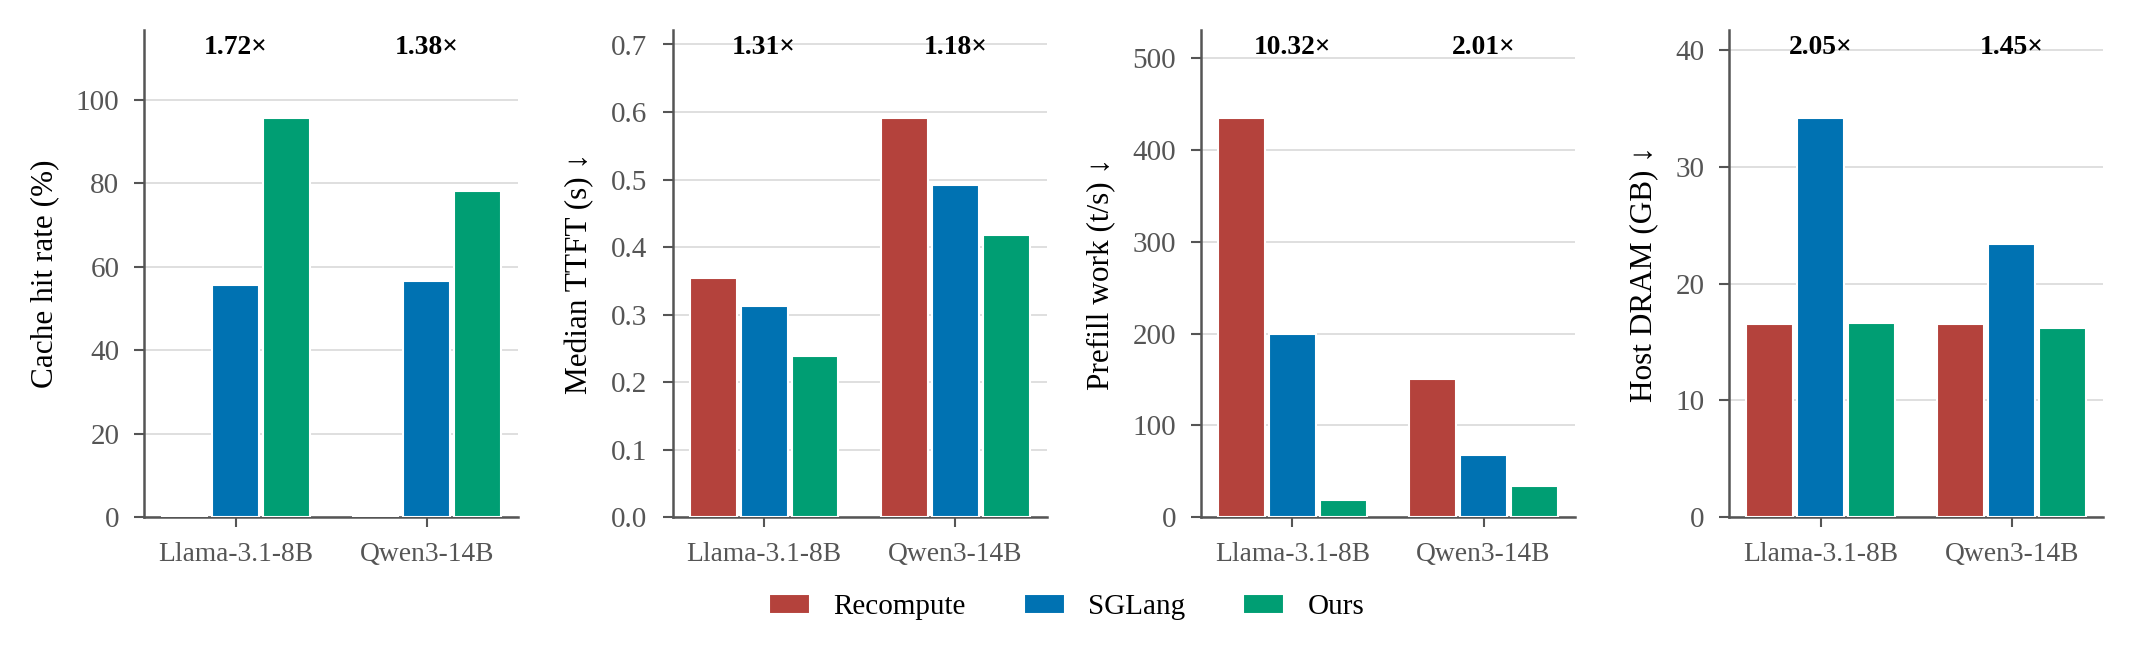
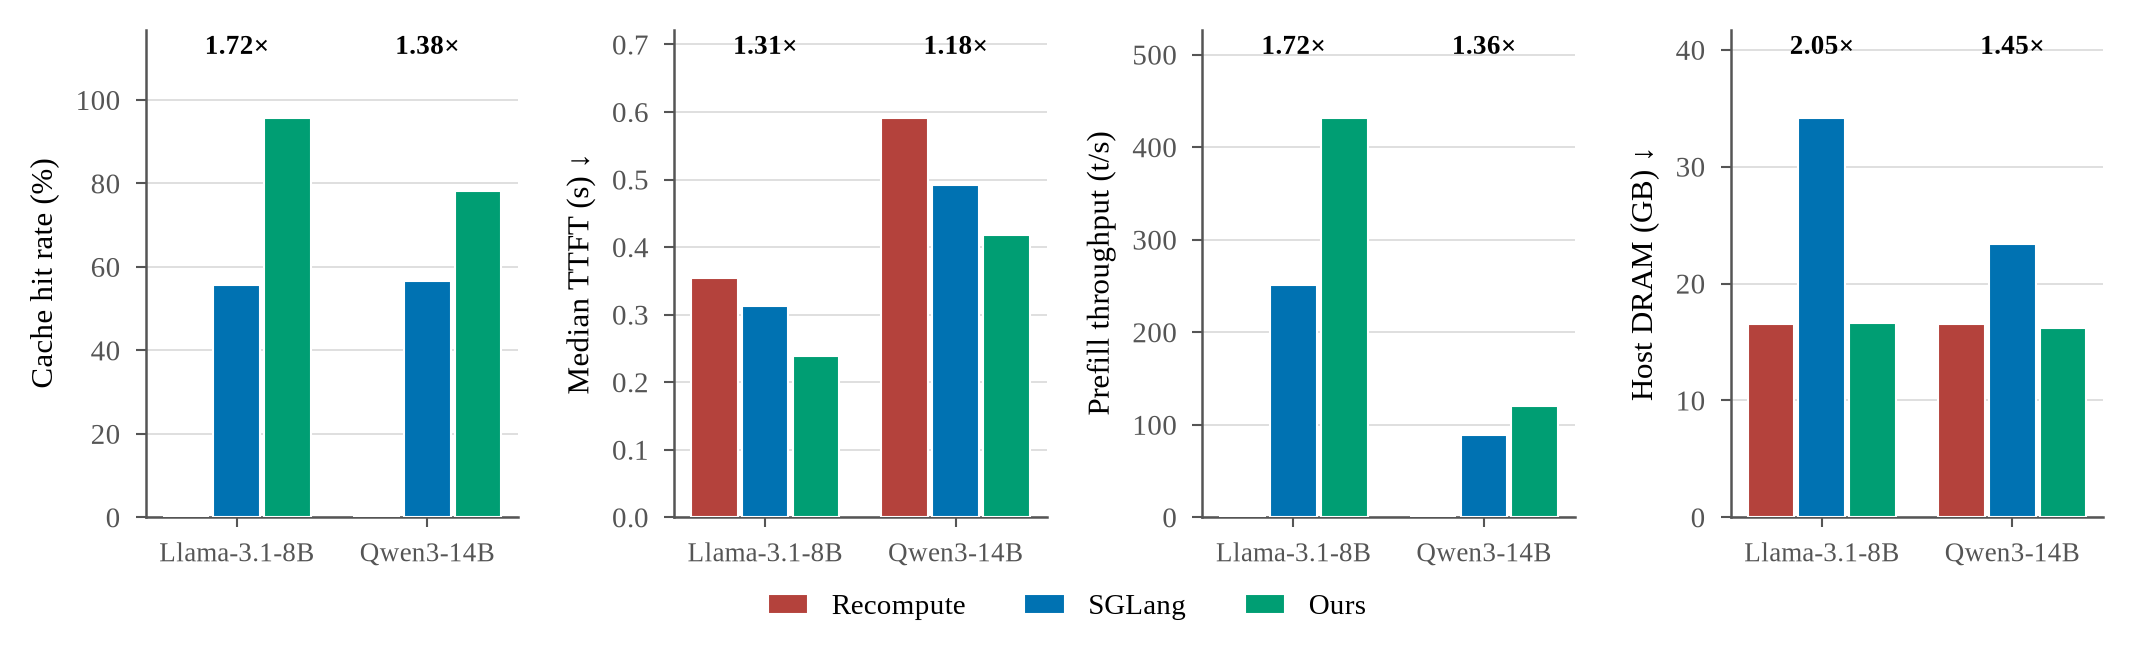
plot prefill in the direction a bar chart is read
The panel showed recomputed prefill tokens per second, where lower is better,
under the label "Prefill work (t/s)" with a small down-arrow. That reads as a
throughput metric, and the reference figure this one imitates plots prefill
throughput with taller meaning better -- so the arm doing 10x LESS prefill work
looked like the worst one. The arrow was not enough, and the label invited the
misreading.

Replaced with prompt tokens SERVED FROM CACHE per second: prefill the server did
not have to do, higher is better. Same underlying measurement, plotted so the
default reading is the correct one. Llama-3.1-8B 0 / 251 / 432 t/s and Qwen3-14B
0 / 88 / 121 t/s for Recompute / SGLang / Ours.

The inverted view is kept as a `recompute_rate` panel for anyone who wants it,
with a comment recording that it was the default once and what went wrong.

Claude-Session: https://claude.ai/code/session_01AoK4pG7kwrWE4Xc7fqoTVf

diff --git a/benchmark/plot_models.py b/benchmark/plot_models.py
@@ -13,14 +13,18 @@ WHAT EACH PANEL MEANS, AND ONE THAT DOES NOT MEAN WHAT ITS NAME SUGGESTS
   TTFT             median. Bigger models are slower in absolute terms, so read the RATIO
                    between arms within a model, not the height across models.
 
-  prefill work     recomputed prefill tokens per second -- the prefill the GPUs actually
-                   had to do. LOWER IS BETTER, and the panel is drawn with that noted.
-                   It is deliberately NOT prompt_tokens/s: this is a closed-loop
-                   benchmark, every arm is offered the same prompts and finishes in
-                   about the same wall time, so prompt_tokens/s is fixed by the workload
-                   and comes out identical across arms by construction (measured
-                   421 / 406 / 415 t/s on Llama-3.1-8B). A capability-style "prefill
-                   throughput" needs a saturating open-loop run -- see qps_sweep.py.
+  prefill          prompt tokens SERVED FROM CACHE per second -- prefill the server did
+                   not have to do. Higher is better, matching how a bar chart is read by
+                   default and how the reference figure plots it. The `recompute_rate`
+                   panel is the same information inverted (tokens that DID have to be
+                   recomputed); it was the default once, and under the name "prefill
+                   work" the best arm was read as the worst.
+                   Neither is prompt_tokens/s: this is a closed-loop benchmark, every arm
+                   is offered the same prompts and finishes in about the same wall time,
+                   so prompt_tokens/s is fixed by the workload and comes out identical
+                   across arms by construction (measured 421 / 406 / 415 t/s on
+                   Llama-3.1-8B). A capability-style peak throughput needs a saturating
+                   open-loop run -- see qps_sweep.py.
 
   host DRAM        peak AnonPages: system-wide, non-reclaimable, so it is what an
                    adjacent agent process actually cannot have.
@@ -63,7 +67,8 @@ ARMS = [
 PANELS = {
     "hit":     ("cache_hit_rate_pct",  "Cache hit rate (%)",   1.0, False, None),
     "ttft":    ("ttft_p50_s",          "Median TTFT (s)",      1.0, True,  None),
-    "prefill": ("prefill_work_tok_s",  "Prefill work (t/s)",   1.0, True,  None),
+    "prefill": ("prefill_served_tok_s", "Prefill throughput (t/s)", 1.0, False, None),
+    "recompute_rate": ("prefill_work_tok_s", "Recomputed prefill (t/s)", 1.0, True, None),
     "mem":     ("peak_anonpages_gb",   "Host DRAM (GB)",       1.0, True,  "hicache"),
     "ttft95":  ("ttft_p95_s",          "P95 TTFT (s)",         1.0, True,  None),
     "recomp":  ("recomputed_tokens",   "Recomputed tokens (M)", 1e-6, True, None),

diff --git a/benchmark/collect_arm_metrics.py b/benchmark/collect_arm_metrics.py
@@ -162,6 +162,15 @@ def collect(arm, bench=None, mem=None, park=None, metrics=None):
         # a property of the workload and is identical across arms by construction
         # (measured 421 / 406 / 415 t/s). What differs is how much of it had to be
         # recomputed. Lower is better on this metric.
+        # Prompt tokens SERVED FROM CACHE per second -- prefill the server did not have
+        # to do. Higher is better, which is the direction the reference figure plots and
+        # the direction a bar chart is read in by default. Its complement,
+        # prefill_work_tok_s below, is the same information inverted; plotting the
+        # inverted one under a name like "prefill throughput" invites reading the best
+        # arm as the worst, which is exactly what happened.
+        "prefill_served_tok_s": (
+            round(cached / (b.get("total_wall_time_s") or 1), 1)
+            if cached is not None and (b.get("total_wall_time_s") or 0) > 0 else None),
         "prefill_work_tok_s": (
             round(sm["uncached_tokens (recompute)"] / (b.get("total_wall_time_s") or 1), 1)
             if sm.get("uncached_tokens (recompute)") is not None
